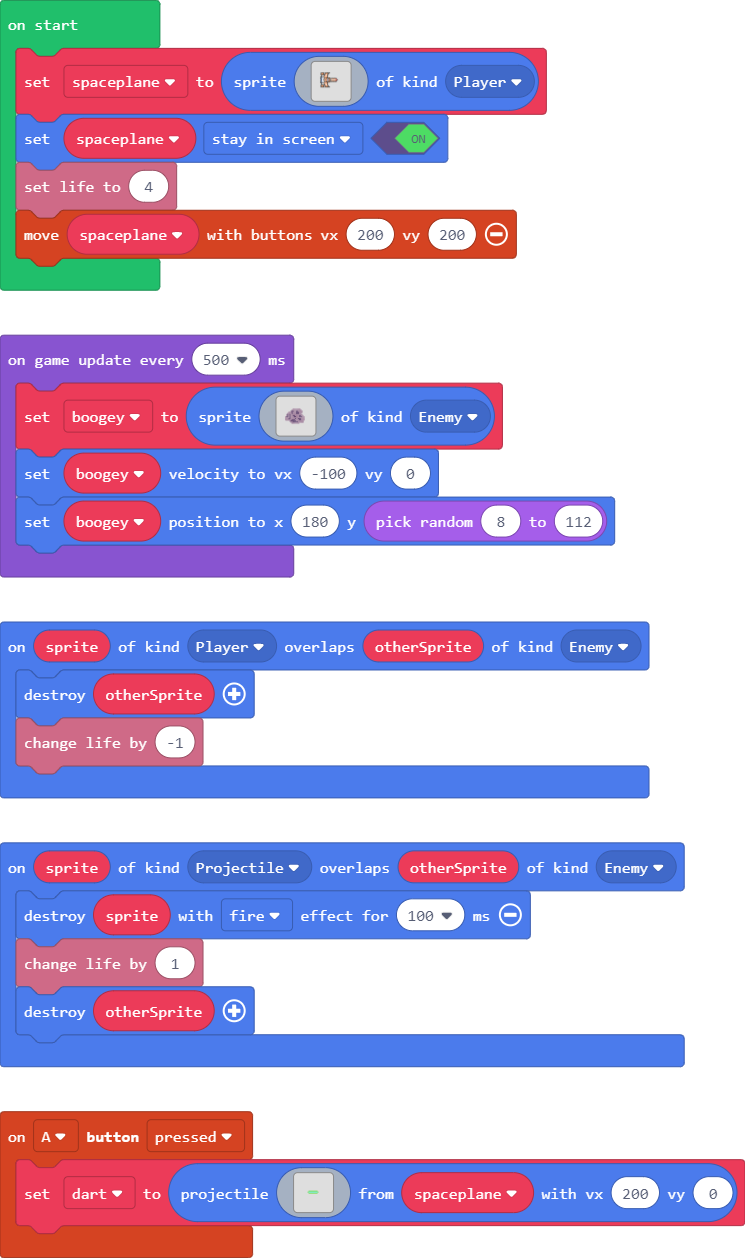
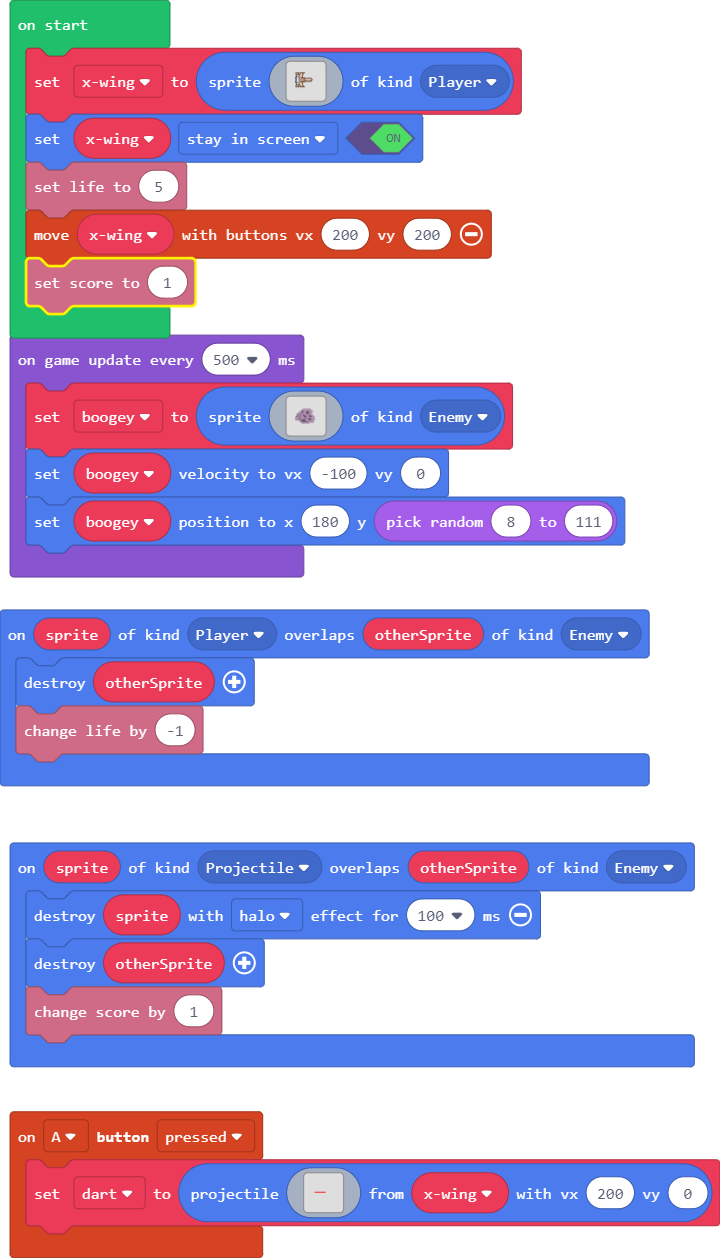
New scoring, laser changes, new name

diff --git a/main.ts b/main.ts
@@ -1,7 +1,7 @@
 sprites.onOverlap(SpriteKind.Projectile, SpriteKind.Enemy, function (sprite, otherSprite) {
-    sprite.destroy(effects.fire, 100)
-    info.changeLifeBy(1)
+    sprite.destroy(effects.halo, 100)
     otherSprite.destroy()
+    info.changeScoreBy(1)
 })
 controller.A.onEvent(ControllerButtonEvent.Pressed, function () {
     dart = sprites.createProjectileFromSprite(img`
@@ -19,9 +19,8 @@ controller.A.onEvent(ControllerButtonEvent.Pressed, function () {
 . . . . . . . . . . . . . . . . . . . . . . . . . . . . . . . . 
 . . . . . . . . . . . . . . . . . . . . . . . . . . . . . . . . 
 . . . . . . . . . . . . . . . . . . . . . . . . . . . . . . . . 
-. . . . . . . . . . . 7 7 7 7 7 7 7 7 7 . . . . . . . . . . . . 
-. . . . . . . . . . 7 9 9 9 9 9 9 9 9 9 7 . . . . . . . . . . . 
-. . . . . . . . . . . 7 7 7 7 7 7 7 7 7 . . . . . . . . . . . . 
+. . . . . . . . . . . . . . . . . . . . . . . . . . . . . . . . 
+. . . . . . . 2 2 2 2 2 2 2 2 2 2 2 . . . . . . . . . . . . . . 
 . . . . . . . . . . . . . . . . . . . . . . . . . . . . . . . . 
 . . . . . . . . . . . . . . . . . . . . . . . . . . . . . . . . 
 . . . . . . . . . . . . . . . . . . . . . . . . . . . . . . . . 
@@ -37,7 +36,8 @@ controller.A.onEvent(ControllerButtonEvent.Pressed, function () {
 . . . . . . . . . . . . . . . . . . . . . . . . . . . . . . . . 
 . . . . . . . . . . . . . . . . . . . . . . . . . . . . . . . . 
 . . . . . . . . . . . . . . . . . . . . . . . . . . . . . . . . 
-`, spaceplane, 200, 0)
+. . . . . . . . . . . . . . . . . . . . . . . . . . . . . . . . 
+`, xwing, 200, 0)
 })
 sprites.onOverlap(SpriteKind.Player, SpriteKind.Enemy, function (sprite, otherSprite) {
     otherSprite.destroy()
@@ -45,8 +45,8 @@ sprites.onOverlap(SpriteKind.Player, SpriteKind.Enemy, function (sprite, otherSp
 })
 let boogey: Sprite = null
 let dart: Sprite = null
-let spaceplane: Sprite = null
-spaceplane = sprites.create(img`
+let xwing: Sprite = null
+xwing = sprites.create(img`
 . . . . . . . . . . . . . . . . . . . . . . . . . . . . . . . . . . . . . . . . . . . . . 
 . . . . . . . . . . . . . . . . . . . . . . . . . . . . . . . . . . . . . . . . . . . . . 
 . . . . . . . . . . . . . . . . . . . . . . . . . . . . . . . . . . . . . . . . . . . . . 
@@ -93,9 +93,10 @@ spaceplane = sprites.create(img`
 . . . . . . . . . . . . . . . . . . . . . . . . . . . . . . . . . . . . . . . . . . . . . 
 . . . . . . . . . . . . . . . . . . . . . . . . . . . . . . . . . . . . . . . . . . . . . 
 `, SpriteKind.Player)
-spaceplane.setFlag(SpriteFlag.StayInScreen, true)
-info.setLife(4)
-controller.moveSprite(spaceplane, 200, 200)
+xwing.setFlag(SpriteFlag.StayInScreen, true)
+info.setLife(5)
+controller.moveSprite(xwing, 200, 200)
+info.setScore(1)
 game.onUpdateInterval(500, function () {
     boogey = sprites.create(img`
 . . . . . . . . . . . . . . . . . . . . . . . . . . . . . . 
@@ -130,5 +131,5 @@ game.onUpdateInterval(500, function () {
 . . . . . . . . . . . . . . . . . . . . . . . . . . . . . . 
 `, SpriteKind.Enemy)
     boogey.setVelocity(-100, 0)
-    boogey.setPosition(180, Math.randomRange(8, 112))
+    boogey.setPosition(180, Math.randomRange(8, 111))
 })
